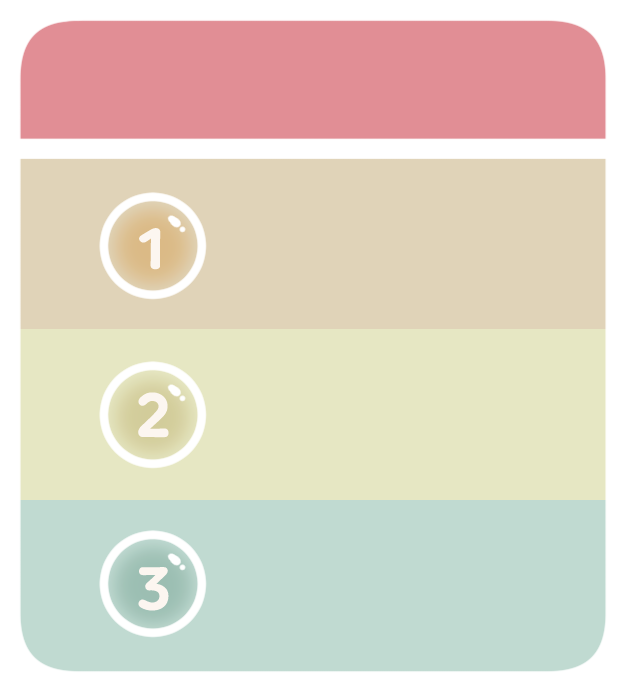
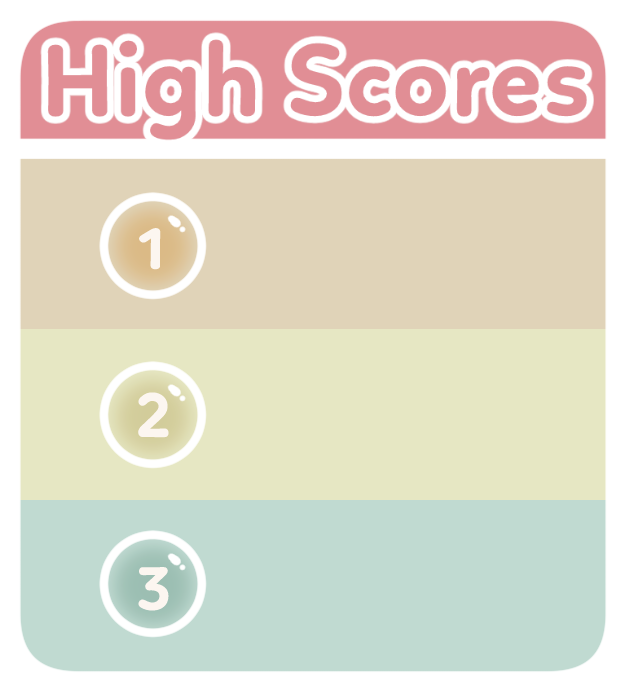
Added new scoreboard asset

Changed region(s): [[0.4553, 0.0303, 0.9712, 0.1821], [0.0607, 0.0303, 0.4249, 0.2124]]

diff --git a/Bubbles/Rendering.cpp b/Bubbles/Rendering.cpp
@@ -114,7 +114,7 @@ void Rendering::PlayDraw(float a_Delta)
 	//m_Window->draw(*m_Score);
 	m_Window->draw(*m_ComboText);
 	m_Window->draw(*m_ScoreTitle);
-	m_Window->draw(*m_HighScoreTitleInPlay);
+	//m_Window->draw(*m_HighScoreTitleInPlay);
 	m_Window->draw(*m_StoredSprite);
 	m_Window->draw(*m_StorageText);
 
@@ -773,8 +773,8 @@ void Rendering::CreateMenuButtonSprites()
 	m_LoadingTexture->loadFromFile(LOADING_FILENAME);
 	m_Loading = std::make_unique<AnimatedSprite>(m_LoadingTexture.get(), Settings::get().GetLoadTime(), Settings::get().GetLoadingFrames(), true);
 	sf::Vector2f windowSize = BubbleMath::ToVector2f(m_Window->getSize());
-	sf::Vector2f loadingTextureSize = BubbleMath::ToVector2f(m_LoadingTexture->getSize());
-	m_Loading->SetPosition(sf::Vector2f(windowSize.x - loadingTextureSize.x / 8, windowSize.y - loadingTextureSize.y));
+	m_Loading->SetScale(0.5, 0.5);
+	m_Loading->SetPosition(sf::Vector2f(windowSize.x - m_Loading->GetSize().x, windowSize.y - m_Loading->GetSize().y));
 }
 
 void Rendering::CreateScoreText()
@@ -891,25 +891,23 @@ void Rendering::CreateNextUpSprites()
 
 void Rendering::CreateHighScoreSpriteInPlay(sf::Vector2f& position)
 {
-	m_HighScoreTitleTextureInPlay = std::make_unique<sf::Texture>();
-	m_HighScoreTitleTextureInPlay->loadFromFile(PLAY_MODE_HIGHSCORE_TITLE_FILENAME);
+	//m_HighScoreTitleTextureInPlay = std::make_unique<sf::Texture>();
+	//m_HighScoreTitleTextureInPlay->loadFromFile(PLAY_MODE_HIGHSCORE_TITLE_FILENAME);
 
-	m_HighScoreTitleInPlay = std::make_unique<sf::Sprite>(*m_HighScoreTitleTextureInPlay);
-	m_HighScoreTitleInPlay->setOrigin(sf::Vector2f(m_HighScoreTitleInPlay->getLocalBounds().size.x / 2.f, m_HighScoreTitleInPlay->getLocalBounds().size.y / 2.f));
-	float scaleX = Settings::get().GetScale();
-	m_HighScoreTitleInPlay->setScale(sf::Vector2f(0.3f * scaleX, 0.3f * Settings::get().GetScale()));
+	//m_HighScoreTitleInPlay = std::make_unique<sf::Sprite>(*m_HighScoreTitleTextureInPlay);
+	//m_HighScoreTitleInPlay->setOrigin(sf::Vector2f(m_HighScoreTitleInPlay->getLocalBounds().size.x / 2.f, m_HighScoreTitleInPlay->getLocalBounds().size.y / 2.f));
+	//float scaleX = Settings::get().GetScale();
+	//m_HighScoreTitleInPlay->setScale(sf::Vector2f(0.3f * scaleX, 0.3f * Settings::get().GetScale()));
 
 	position = m_ScoreTitle->getPosition();
-	position.y += 250 *Settings::get().GetScale();
-	m_HighScoreTitleInPlay->setPosition(position);
-
-	m_HighScoreTextureInPlay = std::make_unique<sf::Texture>();
-	m_HighScoreTextureInPlay->loadFromFile(PLAY_MODE_SCOREBOARD);
+	position.y += 350 *Settings::get().GetScale();
+	//m_HighScoreTitleInPlay->setPosition(position);
+	m_HighScoreTextureInPlay = std::make_unique<sf::Texture>();m_HighScoreTextureInPlay->loadFromFile(PLAY_MODE_SCOREBOARD);
 
 	m_HighScoreSpriteInPlay = std::make_unique<sf::Sprite>(*m_HighScoreTextureInPlay);
 	m_HighScoreSpriteInPlay->setOrigin(sf::Vector2f(m_HighScoreSpriteInPlay->getLocalBounds().size.x / 2.f, m_HighScoreSpriteInPlay->getLocalBounds().size.y / 2.f));
-	m_HighScoreSpriteInPlay->setScale(sf::Vector2f(0.3f * Settings::get().GetScale(), 0.3f * Settings::get().GetScale()));
-	m_HighScoreSpriteInPlay->setPosition(sf::Vector2f(m_HighScoreTitleInPlay->getPosition().x, m_HighScoreTitleInPlay->getPosition().y + m_HighScoreSpriteInPlay->getGlobalBounds().size.y / 2.f));
+	m_HighScoreSpriteInPlay->setScale(sf::Vector2f(0.4f * Settings::get().GetScale(), 0.4f * Settings::get().GetScale()));
+	m_HighScoreSpriteInPlay->setPosition(position);
 }
 
 void Rendering::CreatePlayScoreSprites()
@@ -941,7 +939,7 @@ void Rendering::CreatePlayScoreSprites()
 
 	m_HighScoresInPlay[0]->setString(std::to_string(rand()));
 	//position.x -= 78 * Settings::get().GetScale();
-	position.y = m_HighScoreTitleInPlay->getGlobalBounds().position.y + m_HighScoreTitleInPlay->getGlobalBounds().size.y / 6 + size;
+	//position.y = m_HighScoreTitleInPlay->getGlobalBounds().position.y + m_HighScoreTitleInPlay->getGlobalBounds().size.y / 6 + size;
 	m_HighScoresInPlay[0]->setPosition(position);
 	m_HighScoresInPlay[0]->setFont(*m_FontBold);
 	m_HighScoresInPlay[0]->setFillColor(textColor);

diff --git a/Bubbles/AnimatedSprite.h b/Bubbles/AnimatedSprite.h
@@ -14,7 +14,7 @@ public:
 	void SetFrame(int a_Frame);
 	void SetPosition(const sf::Vector2f& a_Position) const { m_Sprite->setPosition(a_Position); }
 	void SetRotation(const float a_Rotation) const { sf::Angle a = sf::degrees(a_Rotation); m_Sprite->setRotation(a); }
-
+	void SetScale(float x, float y);
 	void SetTotalTime(float a_Time) { m_FrameTime = a_Time; }
 
 	void SetAnimate(bool a_Enable, bool a_Loop) { m_Animate = a_Enable; m_IsLooping = a_Loop; }
@@ -23,6 +23,7 @@ public:
 	void UpdateFrameToAnimate(int a_Number) { m_FramesToAnimate = a_Number; }
 	sf::Sprite* GetSprite() const { return m_Sprite.get(); }
 	sf::Vector2f GetPosition() const { return m_Sprite->getPosition(); }
+	sf::Vector2f GetSize() { return m_Sprite->getGlobalBounds().size; }
 
 	void Draw(sf::RenderTarget& a_Target);
 

diff --git a/Bubbles/AnimatedSprite.cpp b/Bubbles/AnimatedSprite.cpp
@@ -50,6 +50,11 @@ void AnimatedSprite::SetFrame(int a_Frame)
 
 }
 
+void AnimatedSprite::SetScale(float x, float y)
+{
+	m_Sprite->setScale(sf::Vector2f(x,y));
+}
+
 bool AnimatedSprite::IsAnimFinished() const
 {
 	if (m_IsLooping) return false;
